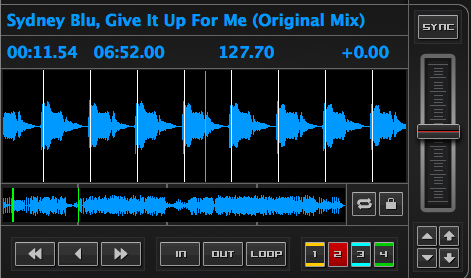
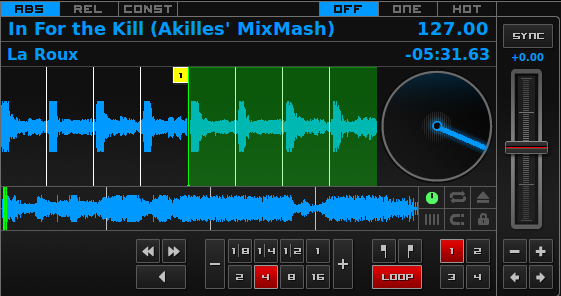
Update the user-interface section to use recent images of the Deere skin. Add some more text describing various parts of the UI

diff --git a/source/chapters/user_interface.rst b/source/chapters/user_interface.rst
@@ -18,7 +18,6 @@ figure out which one you prefer. This section will focus on Deere only.
 The Deck Sections
 =================
 
-
 The :term:`deck` section allows you to control everything relating to a virtual
 turntable deck. We are going to break this down into sections.
 
@@ -32,44 +31,72 @@ Track Information
 -----------------
 
 
-The name of the loaded track is shown on top of each deck. Below from left to right, the
-first number is the total elapsed time in the track. The second number is the
-duration of the track. The third number is the track's detected :term:`BPM`. On
-the far right is the rate of the track relative to its normal speed. The rate is
-currently at 0.00, which means that it is playing at its normal playback rate.
+The name of the loaded track is shown on top of each deck and the artist is
+listed below. The number at the top right is the effective :term:`BPM` of the
+track. This is the detected :term:`BPM` of the track, adjusted for the playback
+rate of the track. For example, if the track is normally 100 BPM, and it is
+playing at +5%, then the effective BPM will read 105 BPM. The number in the
+bottom right is the total elapsed time in the track or the total remaining time
+in the track. You can customize this in the `Mixxx Preferences`_ Interface
+section.
 
 .. image:: ../_static/deere_deck_track_info.png
    :align: center
    :width: 70%
    :alt: The track information section
 
-Playback and Rate Controls
---------------------------
+Rate Controls
+-------------
 
+.. image:: ../_static/deere_deck_rate_control.png
+   :align: left
+   :width: 10%
+   :alt: The rate control section of the deck
+
+The rate controls allow you to change the rate at which tracks are played. This
+is very useful for :term:`beatmatching` two tracks together in a mix. The slider
+adjusts the rate of the track. The percent that the track's rate is sped up or
+slowed down is noted above the slider. At the center, it is +0.0%, which
+indicates no change. The range of this slider is customizable in the `Mixxx
+Preferences`_ Interface section.
+
+The :term:`Sync` button changes the :term:`rate` of the track so that the
+:term:`BPM` of the track matches that of the other deck. It also adjusts the
+:term:`phase` of the track so that the two tracks' beats are aligned.
 
 
 Loop Controls and Hotcues
 -------------------------
 
-For each deck, you can control loops, hotcues and the playback speed.
-On the far left, you can :term:`fast-rewind`, :term:`reverse`, or
-:term:`fast-forward` the deck, respectively. The :term:`in <loop in>` and
-:term:`out <loop out>` buttons allow you to set the loop-in and loop-out
-point. Tapping the :term:`loop <reloop>` button toggles whether the loop is
-active or not.
-
 .. image:: ../_static/deere_deck_loop_hotcue.png
    :align: center
    :width: 70%
-   :alt: The looping, hotcue, and fast-forward/rewind controls.
+   :alt: The looping, beatloop, hotcue, and fast-forward/rewind controls.
 
-The hotcue section, the 4 colored numbers, are used to set and clear
+In this section, you can control loops, beatloops, hotcues and the playback
+speed.  On the far left, you can :term:`fast-rewind`, :term:`fast-forward`, or
+:term:`reverse` the deck, respectively.
+
+The eight numbered buttons to the right of these buttons are the beatlooping
+controls. Clicking on any numbered button in this section will set a loop of
+that number of beats from the beat immediately following the current playback
+position. Clicking on the minus or plus button will either halve or double the
+length of the loop. Tapping the :term:`loop <reloop>` button toggles whether the
+loop is active or not.
+
+Above the :term:`loop <reloop>` button are the :term:`in <loop in>` and
+:term:`out <loop out>` buttons, which allow you to manually set the loop-in and
+loop-out point. If the :term:`quantize` mode is enabled (see `The Waveform`
+section), then the loop points will automatically snap to the nearest beat.
+
+The hotcue section, the 4 numbers on the far right, are used to set and clear
 hotcues. Clicking on a numbered button will set a hotcue. A marker with the
 corresponding number will appear in the waveform with the same number as the
 button and the button will turn red to indicate that the hotcue is set. If the
 deck is playing, you can simply tap a hotcue to cause the deck to instantly jump
 back to the location of the hotcue. To clear a hotcue, right-click on the
-numbered button.
+numbered button. If the :term:`quantize` mode is enabled (see `The Waveform`
+section), then the hotcues will automatically snap to the nearest beat.
 
 The Waveform
 ------------
@@ -96,6 +123,12 @@ once reaches its end. Clicking the keylock button enabes :term:`key lock` mode.
 The Mixer Section
 =================
 
+.. image:: ../_static/deere_mixer.png
+   :align: center
+   :width: 70%
+   :alt: The mixer section
+
+
 Equalizers
 ----------
 
@@ -105,11 +138,23 @@ The PFL Button
 Crossfader and Channel Volume
 -----------------------------
 
+.. image:: ../_static/deere_mixer_crossfader.png
+   :align: center
+   :width: 70%
+   :alt: The crossfader section of the mixer
+
+
+
 Headphone Controls
 ------------------
 
 The Library
 ===========
+
+.. image:: ../_static/deere_library.png
+   :align: center
+   :width: 70%
+   :alt: The Mixxx Library
 
 
 
